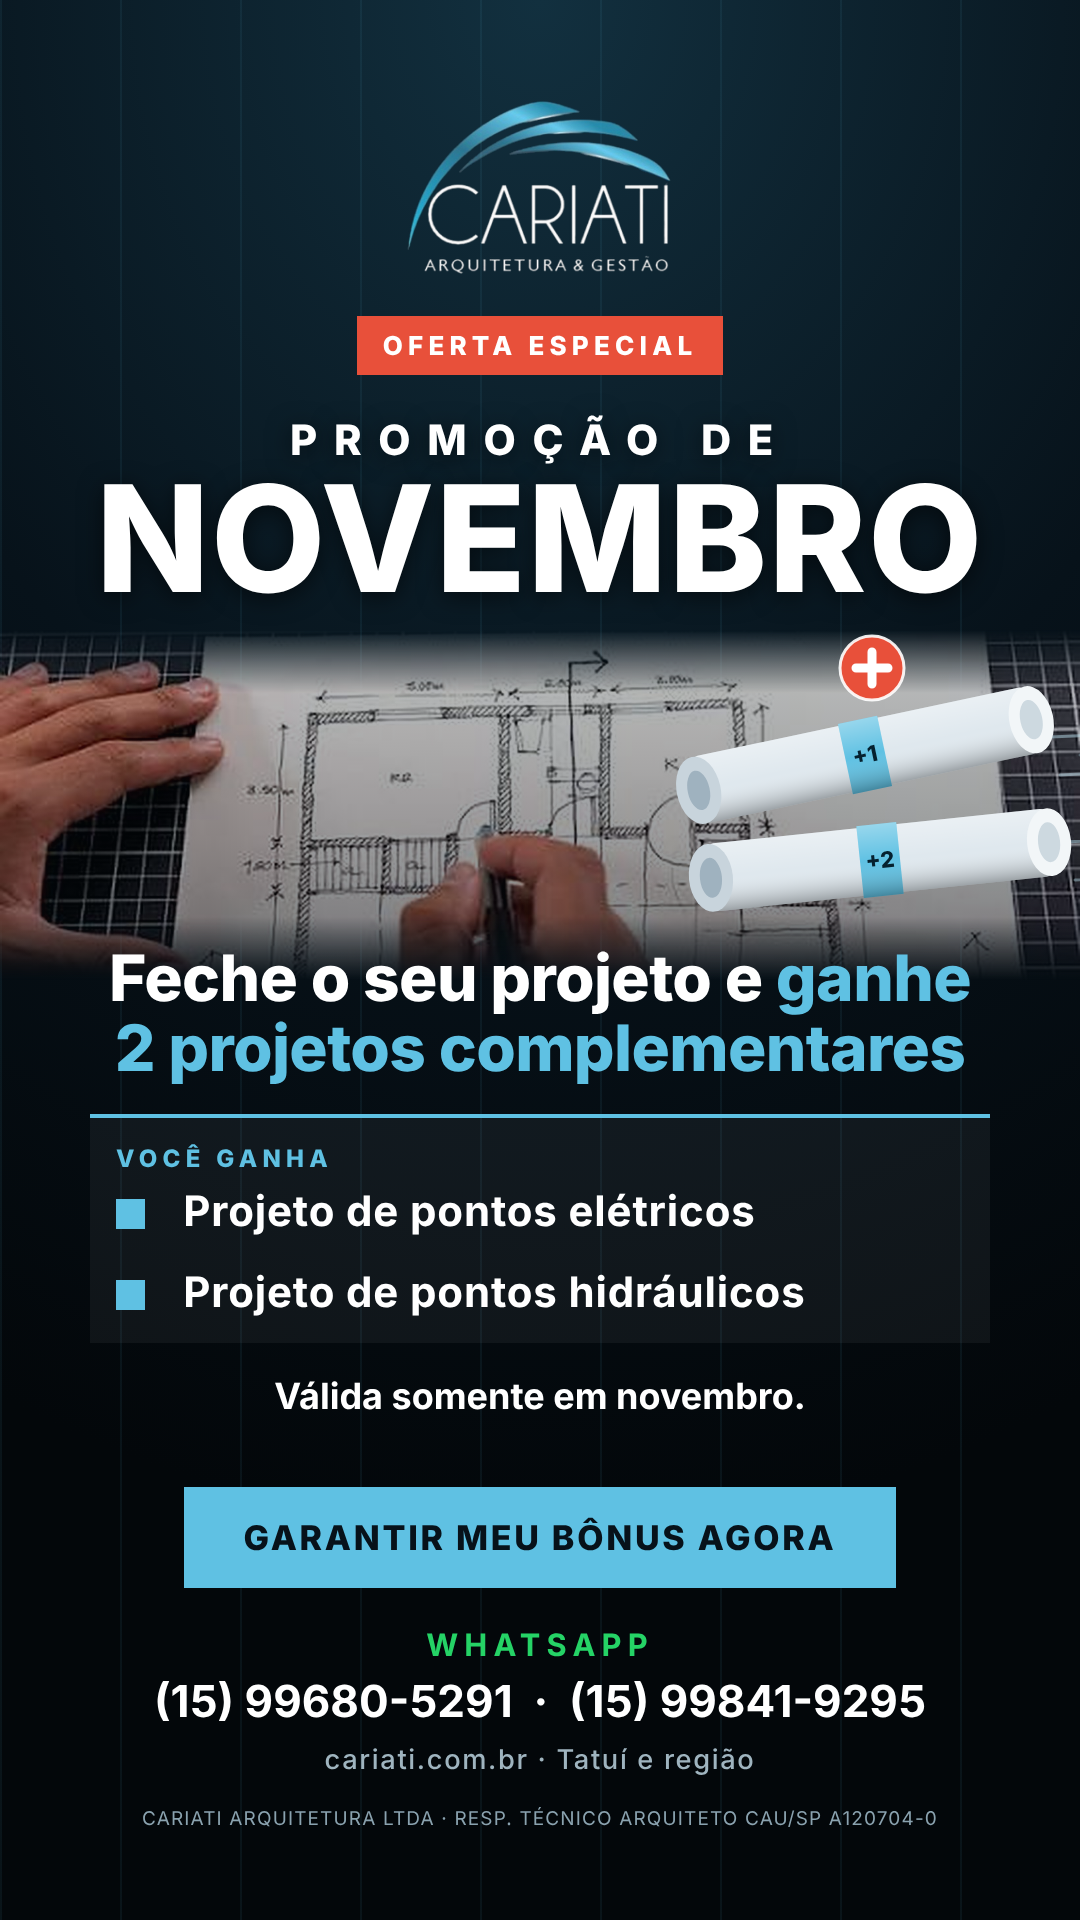
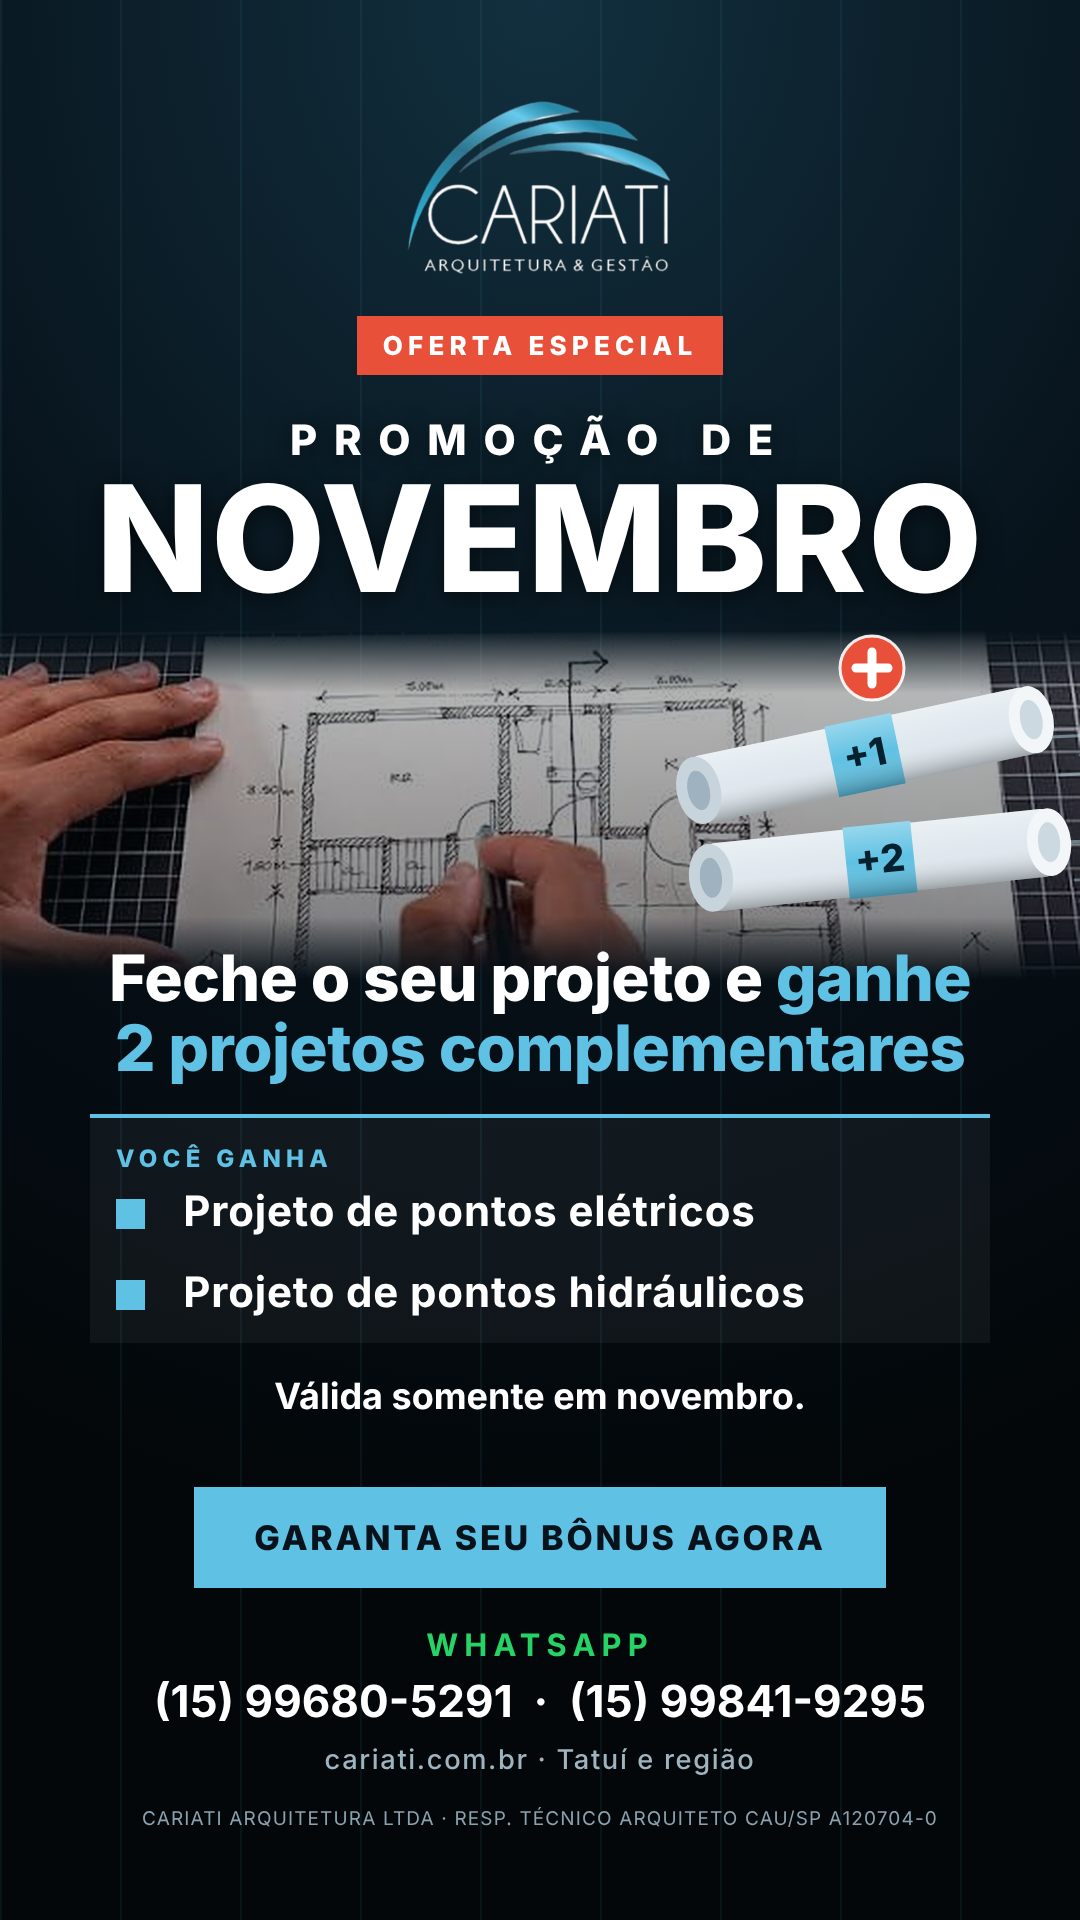
Promo: larger +1/+2 labels on tubes; CTA 'Garanta seu bônus agora'
Claude-Session: https://claude.ai/code/session_012W4cPJrLBDcgKi33Cw4yCm

diff --git a/flyers_cariati/build.py b/flyers_cariati/build.py
@@ -191,7 +191,7 @@ def blueprint(H,ry,rs,photo=False):
 <g stroke-width="2" opacity=".8"><path d="M0 580H640M0 570v20M640 570v20M-30 120V540M-40 120h20M-40 540h20"/><path d="M60 180h120v90H60zM460 380h120v110H460z" stroke-dasharray="8 6"/></g>
 </g>"""
     def roll(cx,cy,rot,label,sc=1):
-        return f"""<g transform="translate({cx},{cy}) rotate({rot}) scale({sc})"><rect x="-170" y="-34" width="340" height="68" rx="6" fill="#dfe8ee"/><rect x="-170" y="-34" width="340" height="68" rx="6" fill="url(#shade)"/><ellipse cx="-170" cy="0" rx="22" ry="34" fill="#c8d4dc"/><ellipse cx="-170" cy="0" rx="11" ry="20" fill="#9fb2bf"/><ellipse cx="170" cy="0" rx="22" ry="34" fill="#f2f6f8"/><ellipse cx="170" cy="0" rx="11" ry="20" fill="#cdd9e0"/><rect x="-20" y="-36" width="40" height="72" fill="#5fc1e3"/><rect x="-20" y="-36" width="40" height="72" fill="url(#shade)"/><text x="0" y="8" text-anchor="middle" font-family="Inter,sans-serif" font-weight="800" font-size="22" fill="#05212f" transform="rotate(0)">{label}</text></g>"""
+        return f"""<g transform="translate({cx},{cy}) rotate({rot}) scale({sc})"><rect x="-170" y="-34" width="340" height="68" rx="6" fill="#dfe8ee"/><rect x="-170" y="-34" width="340" height="68" rx="6" fill="url(#shade)"/><ellipse cx="-170" cy="0" rx="22" ry="34" fill="#c8d4dc"/><ellipse cx="-170" cy="0" rx="11" ry="20" fill="#9fb2bf"/><ellipse cx="170" cy="0" rx="22" ry="34" fill="#f2f6f8"/><ellipse cx="170" cy="0" rx="11" ry="20" fill="#cdd9e0"/><rect x="-34" y="-36" width="68" height="72" fill="#5fc1e3"/><rect x="-34" y="-36" width="68" height="72" fill="url(#shade)"/><text x="0" y="13" text-anchor="middle" font-family="Inter,sans-serif" font-weight="800" font-size="38" fill="#05212f" transform="rotate(0)">{label}</text></g>"""
     big=H>600
     tx,ty,ps=(500,720,.85) if big else (330,344,.45)
     pencil=f"""<g><line x1="{tx-95*ps*1.2:.0f}" y1="{ty}" x2="{tx}" y2="{ty}" stroke="#fff" stroke-width="{4*ps+1:.1f}" stroke-linecap="round" opacity=".95"/><g transform="translate({tx},{ty}) rotate(150) scale({ps})"><polygon points="0,0 44,-13 44,13" fill="#e8c9a0"/><polygon points="0,0 14,-4.3 14,4.3" fill="#2b2f33"/><rect x="44" y="-13" width="216" height="26" fill="#f4c542"/><rect x="44" y="-13" width="216" height="8" fill="#fff" opacity=".35"/><rect x="44" y="6" width="216" height="7" fill="#000" opacity=".18"/><rect x="260" y="-13" width="26" height="26" fill="#b7c0c7"/><rect x="260" y="-13" width="26" height="8" fill="#fff" opacity=".4"/><rect x="286" y="-13" width="24" height="26" rx="5" fill="#e86f7a"/></g></g>"""
@@ -220,8 +220,8 @@ def fpromo(vert):
     h='<h1 class="z" style="font-size:var(--ph);line-height:1.1">Feche o seu projeto e <em>ganhe 2 projetos complementares</em></h1>'
     loss='<div class="sub z" style="font-size:var(--s)"><b>Válida somente em novembro.</b></div>'
     if vert:
-        return hero+lg+sp(36)+urg+sp(40)+date+sp(330)+h+sp(30)+box+sp(28)+loss+flex()+'<div class="cta z">Garantir meu bônus agora</div>'+sp(34)+PH+sp(26)+FOOT
-    return hero+lg+sp(10)+urg+sp(8)+date+sp(60)+h+sp(12)+box.replace('<ul class="list" style="margin-top:12px">','<ul class="list" style="margin-top:8px;--ls:27px;--lg:10px">')+sp(10)+loss+flex()+'<div class="cta z">Garantir meu bônus agora</div>'+sp(12)+PH+sp(4)
+        return hero+lg+sp(36)+urg+sp(40)+date+sp(330)+h+sp(30)+box+sp(28)+loss+flex()+'<div class="cta z">Garanta seu bônus agora</div>'+sp(34)+PH+sp(26)+FOOT
+    return hero+lg+sp(10)+urg+sp(8)+date+sp(60)+h+sp(12)+box.replace('<ul class="list" style="margin-top:12px">','<ul class="list" style="margin-top:8px;--ls:27px;--lg:10px">')+sp(10)+loss+flex()+'<div class="cta z">Garanta seu bônus agora</div>'+sp(12)+PH+sp(4)
 FL=[("01_tudo_em_um_so_lugar",f1),("02_400_obras",f2),("03_metodo_ppg",f3),("04_vamos_conversar",f4),("05_financiamento_caixa",f5),("06_equipe",f6),("07_gestao_de_obras",f7),("08_projetos_e_equipe",f8)]+[(f"dica_{d[0]}",dica(*d)) for d in DICAS]+[("promo_novembro",fpromo)]
 import json
 jobs=[]
